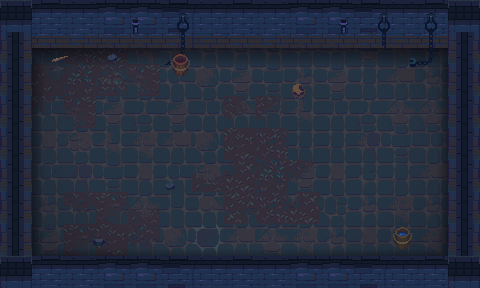
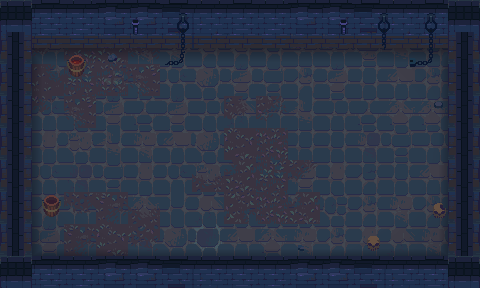
Old Prison: cor própria por tema (Porão marrom, Cripta verde e roxa, Abismo vermelho), salas mais claras, luz das arandelas menor e enfeites grandes só junto das paredes
Claude-Session: https://claude.ai/code/session_011uKGxrH7ezcP6TQ2A6t6Nq

diff --git a/Assets/Scripts/Sala/Sala.cs b/Assets/Scripts/Sala/Sala.cs
@@ -263,7 +263,7 @@ public class Sala : MonoBehaviour
         if (ComFundo)
         {
             for (int lado = -1; lado <= 1; lado += 2)
-                HaloCintilante.Criar(cenario, new Vector2(lado * 3.25f, meio.y + 0.15f), 3.2f, new Color(1f, 0.72f, 0.35f, 0.32f));
+                HaloCintilante.Criar(cenario, new Vector2(lado * 3.25f, meio.y + 0.15f), 2f, new Color(1f, 0.72f, 0.35f, 0.16f));
         }
 
         Sprite[] tocha = ComFundo ? null : ArteImportada.TochaDeParede(32f);
